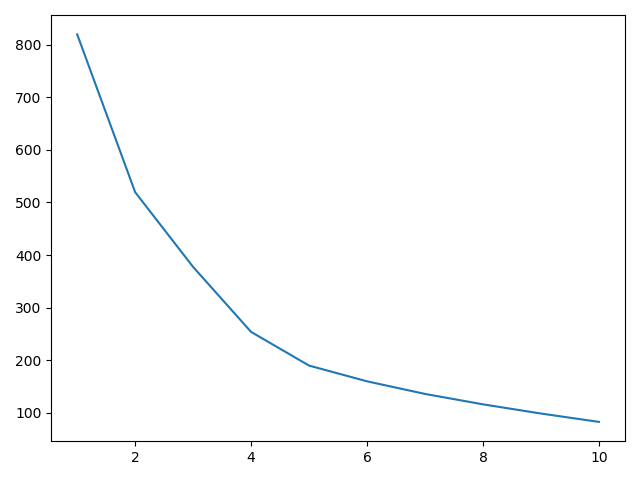
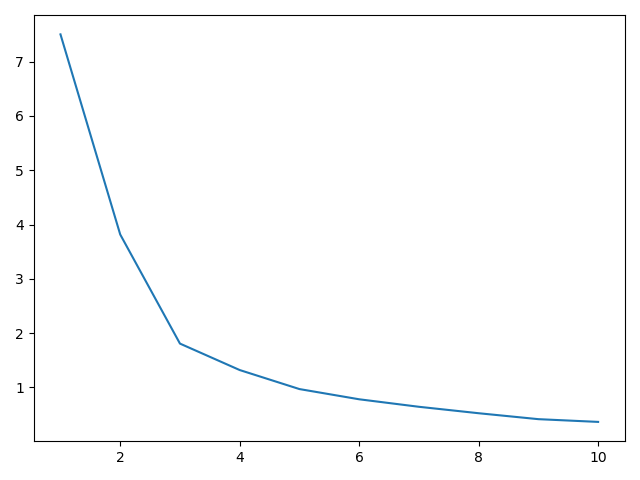
state/prov level info!

diff --git a/joshua/p3/main.py b/joshua/p3/main.py
@@ -23,37 +23,45 @@ def divideByRow(X, y):
         X[i, :] = np.divide(X[i, :], y[i])
     return X
 
-clusters = 4
-neighbours = 2
+clusters = 3
+neighbours = 3
 
-
+'''
 data = pd.read_csv("./data/covid_19_Countries.csv")
 labels = data.loc[:, "country"]
 data = data.drop(["country"], axis=1)
 pops = pd.read_csv("./data/country_pops_covid.csv")
 pops = pops.drop(["Country"], axis=1)
+'''
 
 
-X = data.to_numpy()
+data = pd.read_csv("./data/covid_19_uscan.csv")
+labels = data.loc[:, "StateProvince"]
+data = data.drop(["StateProvince"], axis=1)
+pops = pd.read_csv("./data/state_pop.csv")
+pops = pops.drop(["StateProvince"], axis=1)
+print(data.shape)
+print(pops.shape)
+X = data.to_numpy(dtype=np.float32)
 pop = pops.to_numpy(dtype=np.float32).flatten()
 #X[:,:-1] = pop.T
 X = divideByRow(X, pop)
-
+print(X)
 N, D = X.shape
 X = normalize(X, axis=0)
 X = normalize(X, axis=1)
-'''
+
 #PCA implementation
 X = getPca(X)
 modelNm = "PCA"
-'''
 
+'''
 #ISOMAP implementation
 X = getIso(X, neighbours)
 modelNm = "ISOMAP with " + str(neighbours) + " neighbours"
-
+'''
 #uncomment this to get an elbow diagram
-#utils.elbow(X)
+utils.elbow(X)
 
 kmeans = KMeans(n_clusters=clusters, random_state=0).fit(X)
 print(kmeans.inertia_)
@@ -61,6 +69,7 @@ print(kmeans.inertia_)
 plt.figure()
 for i in range(N):
     plt.plot(X[i, 0], X[i, 1], utils.clusterToMarker(kmeans.labels_[i]))
+    
 plt.xlabel("c1")
 plt.ylabel("c2")
 plt.title(modelNm + " w 2-components with k = " + str(clusters))
@@ -68,5 +77,6 @@ plt.title(modelNm + " w 2-components with k = " + str(clusters))
 
 for i in range(N):
     plt.annotate(utils.filterLabels(labels[i]), (X[i, 0], X[i, 1]))
+    #plt.annotate(labels[i], (X[i, 0], X[i, 1]))
 
 utils.savefig('pca1.png')

diff --git a/joshua/p3/utils.py b/joshua/p3/utils.py
@@ -19,7 +19,8 @@ def clusterToMarker(cluster):
     return c2m[cluster]
 
 def filterLabels(label):
-    whitelist = ["US", "Canada", "Iran", "Italy", "Mainland China", "Spain", "Vietnam", "Finland", "Bahrain", "Iceland", "Andorra", "Luxembourg"]
+    #whitelist = ["US", "Canada", "Iran", "Italy", "Mainland China", "Spain", "Vietnam", "Finland", "Bahrain", "Iceland", "Andorra", "Luxembourg"]
+    whitelist = ["Wyoming", "Michigan", "Alabama", "New York", "Florida", "Washington", "California", "Ontario", "British Columbia", "Quebec", "Arizona", "Hawaii", "Alberta"]
     if (label in whitelist):
         return label
     return ""
